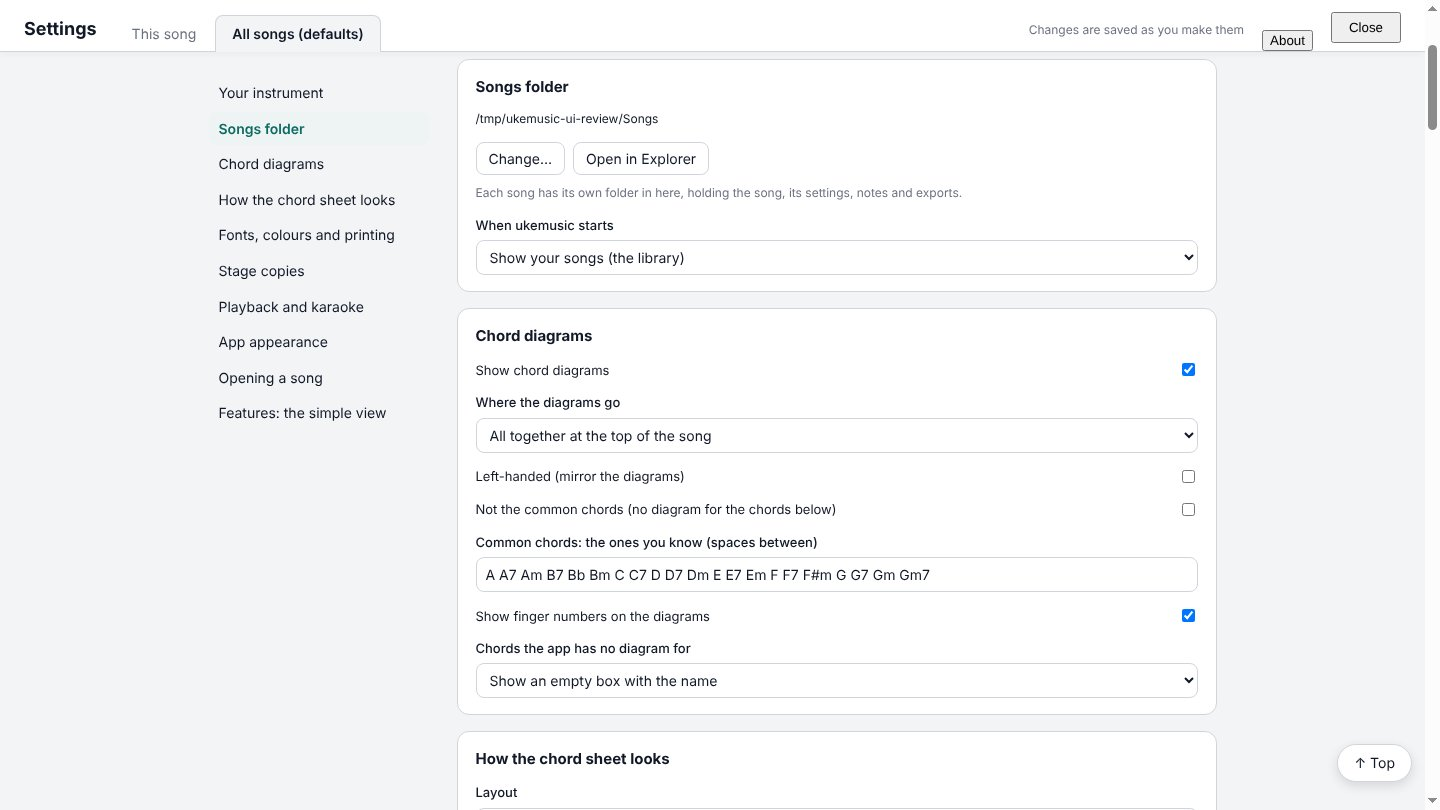
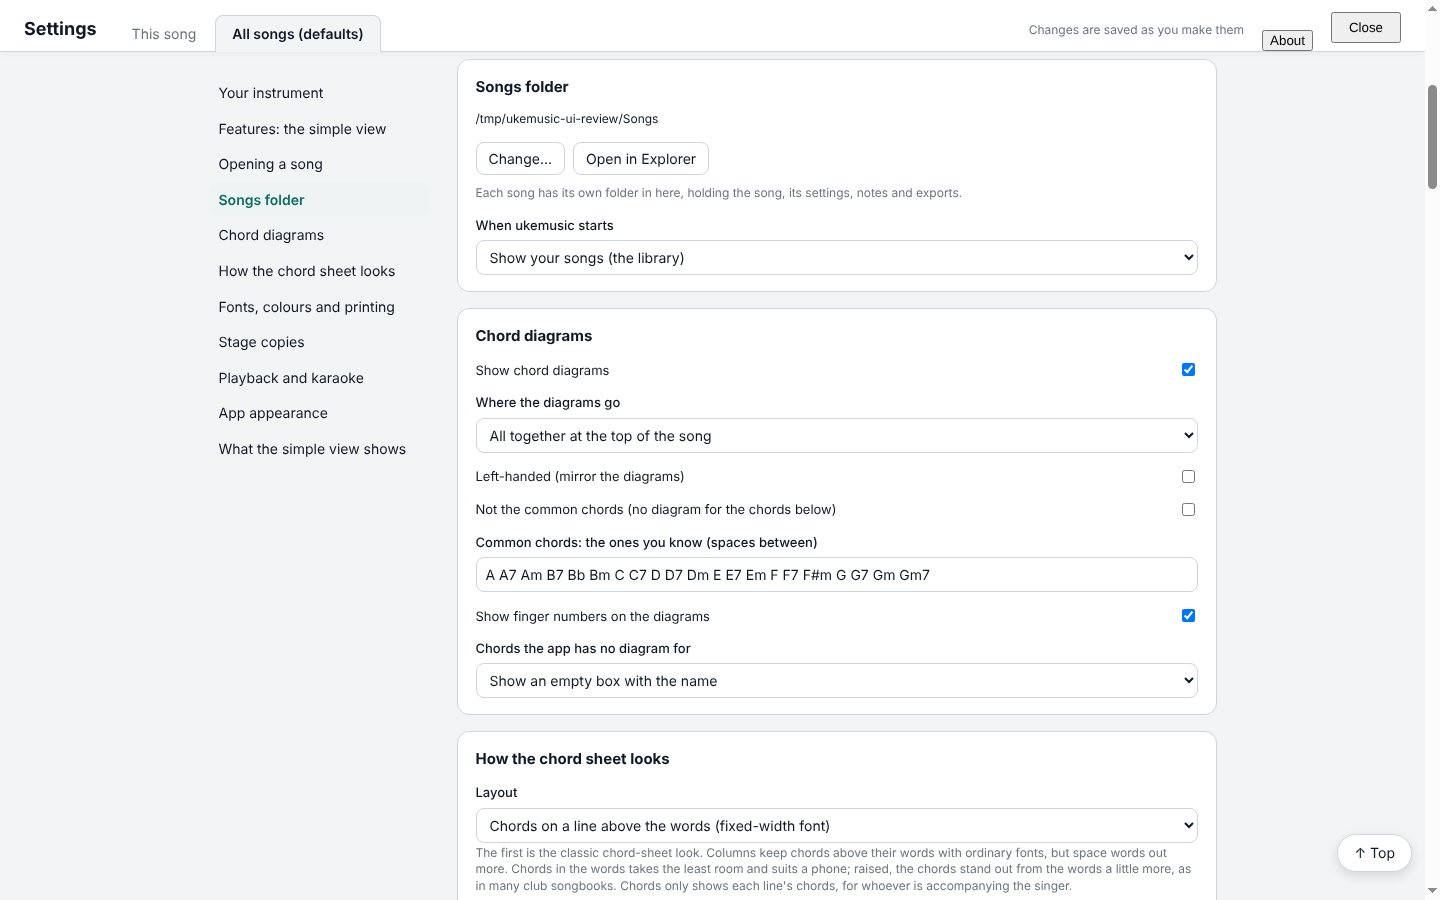
v4.96.0: simple view reviewed; Settings starts with instrument and the simple view; home Settings is for all songs
Claude-Session: https://claude.ai/code/session_01UbrCRY8oACMXjLtCFCbaus

diff --git a/index.html b/index.html
@@ -3146,6 +3146,21 @@
                       </div>
                     </section>
 
+                    <section class="settings-group" id="set-features">
+                      <h3>Features: the simple view</h3>
+                      <div class="field">
+                        <label class="check-line"><input id="general-all_features" type="checkbox" data-config-path="general.all_features" /> Show all features</label>
+                        <p class="help">Off (the simple view), the app shows the features a beginner needs to play and add songs; the rest wait here, and the settings for them are greyed. Hidden is not off: a song that uses a hidden feature plays and prints as before.</p>
+                      </div>
+                      <p class="help"><a href="#set-feature-table" data-settings-jump="set-feature-table">Choose what the simple view shows</a>, one feature at a time (at the end of Settings).</p>
+                    </section>
+                    <section class="settings-group" id="set-editing" data-feature="editWords">
+                      <h3>Opening a song</h3>
+                      <div class="field">
+                        <label class="check-line"><input id="general-open_editing" type="checkbox" data-config-path="general.open_editing" /> Open songs with the words and chords showing, ready to change</label>
+                        <p class="help">Off, a song opens as the sheet to play from, and <b>✎ Edit words &amp; chords</b> (F2) shows the words beside it. New and imported songs always open ready to change.</p>
+                      </div>
+                    </section>
                     <section class="settings-group" id="set-library">
                       <h3>Songs folder</h3>
                       <div id="songsFolderLabel" class="folder-path">Not set</div>
@@ -3466,19 +3481,9 @@
                         <p class="help">Only changes the screen, not exports or PDFs.</p>
                       </div>
                     </section>
-                    <section class="settings-group" id="set-editing" data-feature="editWords">
-                      <h3>Opening a song</h3>
-                      <div class="field">
-                        <label class="check-line"><input id="general-open_editing" type="checkbox" data-config-path="general.open_editing" /> Open songs with the words and chords showing, ready to change</label>
-                        <p class="help">Off, a song opens as the sheet to play from, and <b>✎ Edit words &amp; chords</b> (F2) shows the words beside it. New and imported songs always open ready to change.</p>
-                      </div>
-                    </section>
-                    <section class="settings-group" id="set-features">
-                      <h3>Features: the simple view</h3>
-                      <div class="field">
-                        <label class="check-line"><input id="general-all_features" type="checkbox" data-config-path="general.all_features" /> Show all features</label>
-                        <p class="help">Off, the app shows the features a beginner needs to play and add songs; the rest wait here, and the settings for them are greyed. Hidden is not off: a song that uses a hidden feature plays and prints as before. Tick or untick a feature below to choose what the simple view shows.</p>
-                      </div>
+                    <section class="settings-group" id="set-feature-table">
+                      <h3>What the simple view shows</h3>
+                      <p class="help">Tick a feature to show it in the simple view. Show all features (at the top of Settings) shows everything.</p>
                       <div id="featureTable" class="field"></div>
                       <div class="field"><button id="featureTableReset" type="button">Back to the defaults</button></div>
                     </section>
@@ -6461,6 +6466,8 @@ The [F]curly brackets at the top set the [C]strum: D down, U up.
           // 4.81: in the simple view, the page with settings you can change (This song's are for all features)
           if (shouldShow && typeof forceValue !== 'boolean') showSettingsTab(!document.documentElement.hasAttribute('data-simple') && libraryEl.hidden && state.song ? 'song' : 'all');
           else if (shouldShow && document.documentElement.hasAttribute('data-simple')) showSettingsTab('all');
+          // 4.96: from the home screen there's no song: only the settings for all songs
+          if (shouldShow) document.getElementById('settingsTabSong').hidden = !libraryEl.hidden;
           if (shouldShow) buildSettingsNav();
         }
 
@@ -7982,6 +7989,13 @@ The [F]curly brackets at the top set the [C]strum: D down, U up.
 
         document.getElementById('settingsTabSong').addEventListener('click', () => showSettingsTab('song'));
         document.getElementById('settingsTabAll').addEventListener('click', () => showSettingsTab('all'));
+        // 4.96: a link from one part of Settings to another
+        settingsPanel.addEventListener('click', (event) => {
+          const jump = event.target.closest('[data-settings-jump]');
+          if (!jump) return;
+          event.preventDefault();
+          document.getElementById(jump.dataset.settingsJump)?.scrollIntoView({ block: 'start', behavior: 'smooth' });
+        });
         function showSettingsTab(tab) {
           document.getElementById('settingsTabSong').classList.toggle('active', tab === 'song');
           document.getElementById('settingsTabAll').classList.toggle('active', tab === 'all');

diff --git a/src/feature-levels.js b/src/feature-levels.js
@@ -18,7 +18,7 @@
     { id: 'editWords', app: 'both', where: 'the song\'s top bar, and Settings; web: the song page', name: 'Edit words & chords (a song opens as the sheet to play from)', level: 'simple' }, // 4.93
     // ── Desktop: File ──
     { id: 'save', app: 'desktop', where: 'File', name: 'Save, Save as new', level: 'simple' },
-    { id: 'versions', app: 'desktop', where: 'File', name: 'Earlier versions of a song', level: 'all' },
+    { id: 'versions', app: 'desktop', where: 'File', name: 'Earlier versions of a song', level: 'simple' },
     { id: 'songFile', app: 'desktop', where: 'File', name: 'Rename, Close', level: 'simple' },
     { id: 'bringIn', app: 'desktop', where: 'File', name: 'Bring in: import, paste a chord sheet', level: 'simple' },
     { id: 'tidy', app: 'desktop', where: 'File', name: 'Tidy chords above the words', level: 'all' },
@@ -33,7 +33,7 @@
     { id: 'key', app: 'desktop', where: 'Song', name: 'Key: try it higher or lower, other keys', level: 'simple' },
     { id: 'keyVersions', app: 'desktop', where: 'Song', name: 'Saved keys: keep a key as a version, rewrite the song in a key', level: 'all' },
     { id: 'capo', app: 'desktop', where: 'Song', name: 'Capo', level: 'simple' },
-    { id: 'capoSuggest', app: 'desktop', where: 'Song', name: 'Suggest a capo', level: 'all' },
+    { id: 'capoSuggest', app: 'desktop', where: 'Song', name: 'Suggest a capo', level: 'simple' },
     { id: 'instrument', app: 'both', where: 'Song; web: the song page', name: 'Instrument', level: 'simple' },
     { id: 'tempoTime', app: 'desktop', where: 'Song', name: 'Tempo and time', level: 'simple' },
     { id: 'songStrum', app: 'desktop', where: 'Song', name: 'Strum where none is written', level: 'all' },
@@ -67,7 +67,7 @@
     // ── Desktop: Learn ──
     { id: 'learnMemory', app: 'desktop', where: 'Learn', name: 'Play from memory', level: 'simple' },
     { id: 'learnQuiz', app: 'desktop', where: 'Learn', name: 'Test yourself: Next chord?', level: 'simple' },
-    { id: 'learnFingers', app: 'desktop', where: 'Learn', name: 'Chord changes, drills', level: 'all' },
+    { id: 'learnFingers', app: 'desktop', where: 'Learn', name: 'Chord changes, drills', level: 'simple' },
     { id: 'learnNumbers', app: 'desktop', where: 'Learn', name: 'Chords as numbers', level: 'all' },
     { id: 'learnKey', app: 'desktop', where: 'Learn', name: 'Learn it in another key', level: 'all' },
     { id: 'learnTheory', app: 'desktop', where: 'Learn', name: 'How the song works: learn sheet, circle, patterns', level: 'all' },
@@ -79,10 +79,10 @@
     { id: 'libraries', app: 'desktop', where: 'the library', name: 'Other libraries and library packs', level: 'all' },
     { id: 'libraryTools', app: 'desktop', where: 'the library', name: 'Open the library folder, export every song', level: 'all' },
     // ── Desktop: song tabs ──
-    { id: 'detailsMore', app: 'desktop', where: 'the song: Details tab', name: 'Album, source, difficulty, licence', level: 'all' },
-    { id: 'songLinks', app: 'desktop', where: 'the song: Links tab', name: 'Links', level: 'all' },
-    { id: 'songExports', app: 'desktop', where: 'the song: Exports tab', name: 'Exports', level: 'all' },
-    { id: 'songChordPro', app: 'desktop', where: 'the song: ChordPro tab', name: 'ChordPro fields', level: 'all' },
+    { id: 'detailsMore', app: 'desktop', where: 'the song: Details tab', name: 'Album, source, difficulty, licence', level: 'simple' },
+    { id: 'songLinks', app: 'desktop', where: 'the song: Links tab', name: 'Links', level: 'simple' },
+    { id: 'songExports', app: 'desktop', where: 'the song: Exports tab', name: 'Exports', level: 'simple' },
+    { id: 'songChordPro', app: 'desktop', where: 'the song: ChordPro tab', name: 'ChordPro fields', level: 'simple' },
     // ── Settings (greyed in the simple view, not hidden) ──
     { id: 'setSongCustom', app: 'desktop', where: 'Settings', name: 'Settings: custom for this song', level: 'all', grey: true },
     { id: 'setSongFonts', app: 'desktop', where: 'Settings', name: 'Settings: font for this song', level: 'all', grey: true },

diff --git a/test/v496.test.js b/test/v496.test.js
@@ -1,0 +1,34 @@
+// 4.96: the simple view, reviewed: what it hid that made little difference is now in it (the song's
+// Links, Exports and ChordPro tabs, its other details, Earlier versions, Suggest a capo, Learn's
+// chord changes); Settings starts with your instrument and the simple view's switch; from the home
+// screen, Settings is only the settings for all songs.
+const assert = require('assert');
+const fs = require('fs');
+const path = require('path');
+
+function test(name, fn) {
+  try { fn(); console.log(`✓ ${name}`); } catch (error) { console.error(`✗ ${name}`); throw error; }
+}
+const DESKTOP = fs.readFileSync(path.join(__dirname, '..', 'index.html'), 'utf8').replace(/\r\n/g, '\n');
+const F = require('../src/feature-levels');
+const level = (id) => F.FEATURES.find((f) => f.id === id).level;
+
+test('the simple view keeps what made little difference', () => {
+  for (const id of ['songLinks', 'songExports', 'songChordPro', 'detailsMore', 'versions', 'capoSuggest', 'learnFingers']) assert.strictEqual(level(id), 'simple', id);
+  for (const id of ['style', 'stage', 'exportMore', 'session', 'sound', 'learnTheory', 'picking']) assert.strictEqual(level(id), 'all', id);
+});
+
+test('Settings: your instrument, then the simple view, then opening a song; the table at the end', () => {
+  const order = [...DESKTOP.matchAll(/<section class="settings-group" id="(set-[a-z-]+)"/g)].map((m) => m[1]);
+  const all = order.slice(order.indexOf('set-instrument'));
+  assert.deepStrictEqual(all.slice(0, 4), ['set-instrument', 'set-features', 'set-editing', 'set-library']);
+  assert.strictEqual(all[all.length - 1], 'set-feature-table');
+  const features = DESKTOP.slice(DESKTOP.indexOf('id="set-features"'), DESKTOP.indexOf('id="set-editing"'));
+  assert.ok(features.includes('Show all features') && features.includes('data-settings-jump="set-feature-table"') && !features.includes('id="featureTable"'));
+  assert.ok(DESKTOP.slice(DESKTOP.indexOf('id="set-feature-table"')).includes('<div id="featureTable" class="field"></div>'));
+});
+
+test('from the home screen, Settings is for all songs only', () => {
+  assert.ok(DESKTOP.includes("if (shouldShow) document.getElementById('settingsTabSong').hidden = !libraryEl.hidden;"));
+  assert.match(DESKTOP, /getElementById\('libSettingsButton'\)\.addEventListener\('click', \(\) => \{\n\s+toggleSettingsPanel\(true\);\n\s+showSettingsTab\('all'\);/);
+});

diff --git a/test/v481.test.js b/test/v481.test.js
@@ -16,7 +16,7 @@ const F = require('../src/feature-levels');
 const level = (id) => F.FEATURES.find((f) => f.id === id).level;
 
 test('S3, S9: more of the app belongs to a feature', () => {
-  for (const id of ['versions', 'tidy', 'capoSuggest', 'keyVersions', 'libraries', 'libraryTools', 'detailsMore', 'exportMore', 'downloadMore']) assert.strictEqual(level(id), 'all', id);
+  for (const id of ['tidy', 'keyVersions', 'libraries', 'libraryTools', 'exportMore', 'downloadMore']) assert.strictEqual(level(id), 'all', id); // 4.96: versions, capoSuggest and detailsMore are simple
   assert.strictEqual(level('phone'), 'simple');
   for (const [id, feature] of [['historyButton', 'versions'], ['convertLinesButton', 'tidy'], ['capoSuggestButton', 'capoSuggest'], ['libSwitch', 'libraries'], ['libOpenFolder', 'libraryTools'], ['libExportAll', 'libraryTools'], ['libPhone', 'phone'], ['detailsAlbum', 'detailsMore'], ['detailsLicence', 'detailsMore']]) {
     assert.match(DESKTOP, new RegExp(`id="${id}" data-feature="${feature}"`), id);

diff --git a/docs/user-guide.md b/docs/user-guide.md
@@ -45,7 +45,7 @@ A new, pasted or imported song opens ready to edit. Press **Save** to keep it.
 
 ## A song: reading and editing
 
-A song opens as the sheet to play from. Beside it, in a narrower column, are the song's **Details** (artist, year, key, tempo, time, tags), **Notes**, and (with all features) its **Links**, **Exports** and **ChordPro** fields. The column opens on the notes, if the song has any, or on the tab you last looked at.
+A song opens as the sheet to play from. Beside it, in a narrower column, are the song's **Details** (artist, year, key, tempo, time, tags), **Notes**, **Links**, **Exports** and **ChordPro** fields. The column opens on the notes, if the song has any, or on the tab you last looked at.
 
 ![A song open as the sheet, with its notes beside it and the tools above it](../site/img/guide/desktop-S1.jpg)
 
@@ -80,7 +80,7 @@ Anything you change waits for **Save**, whether you're editing or not: the words
 - **Discard** asks first, then takes the song back to how it was last saved.
 - **Done** doesn't save: your changes stay until you Save or Discard them.
 - If you close a song with changes, ukemusic asks whether to save them.
-- Every save keeps the one before. **File → Earlier versions** (with all features) shows them, and puts one back.
+- Every save keeps the one before. **File → Earlier versions** shows them, and puts one back.
 
 Two things are never saved with the song: **Practice speed** (Play tab) and trying the song **higher or lower** (Song tab), until you keep that key.
 
@@ -233,15 +233,17 @@ The web player saves sheets from **Download** (⤓ on a song). See real files in
 
 ## Settings and the simple view
 
-**Settings** (on the home screen, or the ⚙ at the right of the tabs) has two tabs: **This song**, and **All songs (defaults)**.
+**Settings** on the home screen is for all your songs. In a song, the ⚙ **Settings** at the right of the tabs also has **This song**: a setting there is kept with that song (untick **Use default** to give it its own value).
 
 ![Settings, all songs: the list of sections on the left](../site/img/guide/desktop-G2.jpg)
 
-- **Your instrument**, **Songs folder**, **Chord diagrams** (including **Left-handed**), **How the chord sheet looks**, **Fonts, colours and printing**, **Stage copies**, **Playback and karaoke**, **App appearance**.
-- **Opening a song:** tick it to have every song open with the words and chords showing.
-- **Features: the simple view.** At first ukemusic shows what someone new needs; **More features** (on the tabs) or **Show all features** here shows everything. The table under it chooses what the simple view shows, one feature at a time. Hidden isn't off: a song that uses a hidden feature plays and prints as before.
+The first three are the ones to look at first:
 
-A setting on **This song** is kept with that song; untick **Use default** to give it its own value.
+- **Your instrument:** what you play. New songs, chord shapes, tab and playback follow it.
+- **Features: the simple view.** At first ukemusic shows what someone new needs. Tick **Show all features** here (or press **More features** on the tabs) to see everything. **What the simple view shows**, at the end of Settings, chooses one feature at a time. Hidden isn't off: a song that uses a hidden feature plays and prints as before.
+- **Opening a song:** tick it to have every song open with the words and chords showing.
+
+Then **Songs folder**, **Chord diagrams** (including **Left-handed**), **How the chord sheet looks**, **Fonts, colours and printing**, **Stage copies**, **Playback and karaoke** and **App appearance**.
 
 ## On a phone or tablet
 

diff --git a/HANDOVER.md b/HANDOVER.md
@@ -894,6 +894,7 @@ Full description: **INSTRUMENTS.md** (users and developers).
 | 4.94.2 | Free Practice opened twice no longer leaves the page inert; site-pictures and the UI review run clean again |
 | 4.95.0 | Website: plain, functional design (four text sizes, system font, no decoration); a user guide with pictures |
 | 4.95.1 | Reading a song: Details, Links, Exports, Notes and ChordPro stay beside the sheet |
+| 4.96.0 | Simple view reviewed: more in it where it made little difference; Settings starts with instrument and the simple view; home Settings is for all songs |
 | 4.53.0 (ribbon layout) | index.html ribbon rebuilt to one standard (`/* ── 4.53: the ribbon's layout ── */` at the end of the main style block): `.rib-group` = `.rib-items` (height `--rib-h`, 62px) over `.rib-label`; large `.rib-button`s; `.rib-col` = up to two rows of `--rib-row` (28px) small controls (`.rib-field`, `.rib-row`, `.rib-check`, `.rib-small`, `.rib-note`); a column whose fields have labels becomes a two-column grid (labels right-aligned, controls lined up). One setting in a group: no label (aria-label instead), the group names it. `.ribbon-panel` doesn't wrap: `foldRibbon()` folds groups from the right into generated `.rib-fold` buttons (`.rib-group.folded`, `.open` shows the group as a popover); runs on resize; `revealElement` opens a folded group. Own-setting mark moved to the group caption (`:has(.rib-own)`). Tab renamed Picking. `#writtenAccompaniment` goes in the strum column's second row. Tests: test/ribbon-layout.test.js. |
 | 4.53.0 | Ribbon buttons: content-sized (56px minimum, 88px usual maximum, 104px for long labels), top-aligned controls and retained icons when Play/Pause changes. File/Write use the requested short labels; Archive removed from File, Strums moved to native Help; This song renamed Song with its panel unchanged. `src/song-ui.js` shares `setControlLabel` and `memoryPlayLabel` across desktop/web. Learn labels describe chord visibility; “Play in new key”, “Practise trouble spots”, “Circle of fifths”; Pick “Choose picking” retains current-line insertion. Ribbon panels share one CSS grid row for stable height; inactive panels are invisible and inert. Section captions replace repeated upper labels; compact loop wording and Auto feel/Even selections retain existing values. The screenshot review checks equal header heights at 1440 and 1120px. Playback behaviour is unchanged. `test/song-ui-labels.test.js` covers labels, retained icons and targeted review arguments. UI review preserves the first app argument and supports section filters for iPad/iPhone as well as desktop. |
 | 2.5.0 | Initial release. Parser, HTML/Markdown renderers, Electron UI, CodeMirror, live preview, diagrams, tablature, INI config, editable stylesheet. |

diff --git a/CHANGELOG.md b/CHANGELOG.md
@@ -1,5 +1,17 @@
 # Changelog
 
+## v4.96.0
+
+- **The simple view, reviewed.** Comparing the two views tab by tab, some hidden items made little difference, so they're now in the simple view:
+  - the song's **Links**, **Exports** and **ChordPro** tabs, and its other details (album, source, difficulty, licence);
+  - **Earlier versions** (File);
+  - **Suggest** a capo (Song);
+  - **Changes** and **Shapes** (Learn).
+  
+  What it still hides makes a real difference: the Display tab's styles and the tune, the Export tab's Stage copies and other formats, the Session screen, sound and feel, the rest of Learn, and the Picking tab.
+- **Settings starts with what matters first:** Your instrument, then **Features: the simple view** (the Show all features switch), then Opening a song. The table that chooses what the simple view shows is at the end, with a link to it.
+- **Settings from the home screen** shows only the settings for all songs. The This song tab appears when a song is open.
+
 ## v4.95.1
 
 - When you're reading a song (not editing), its **Details**, **Links**, **Exports**, **Notes** and **ChordPro** tabs now stay beside the sheet, in a narrower column. Before, they were only there while editing. Only **Words & chords** waits for **✎ Edit words & chords**.
